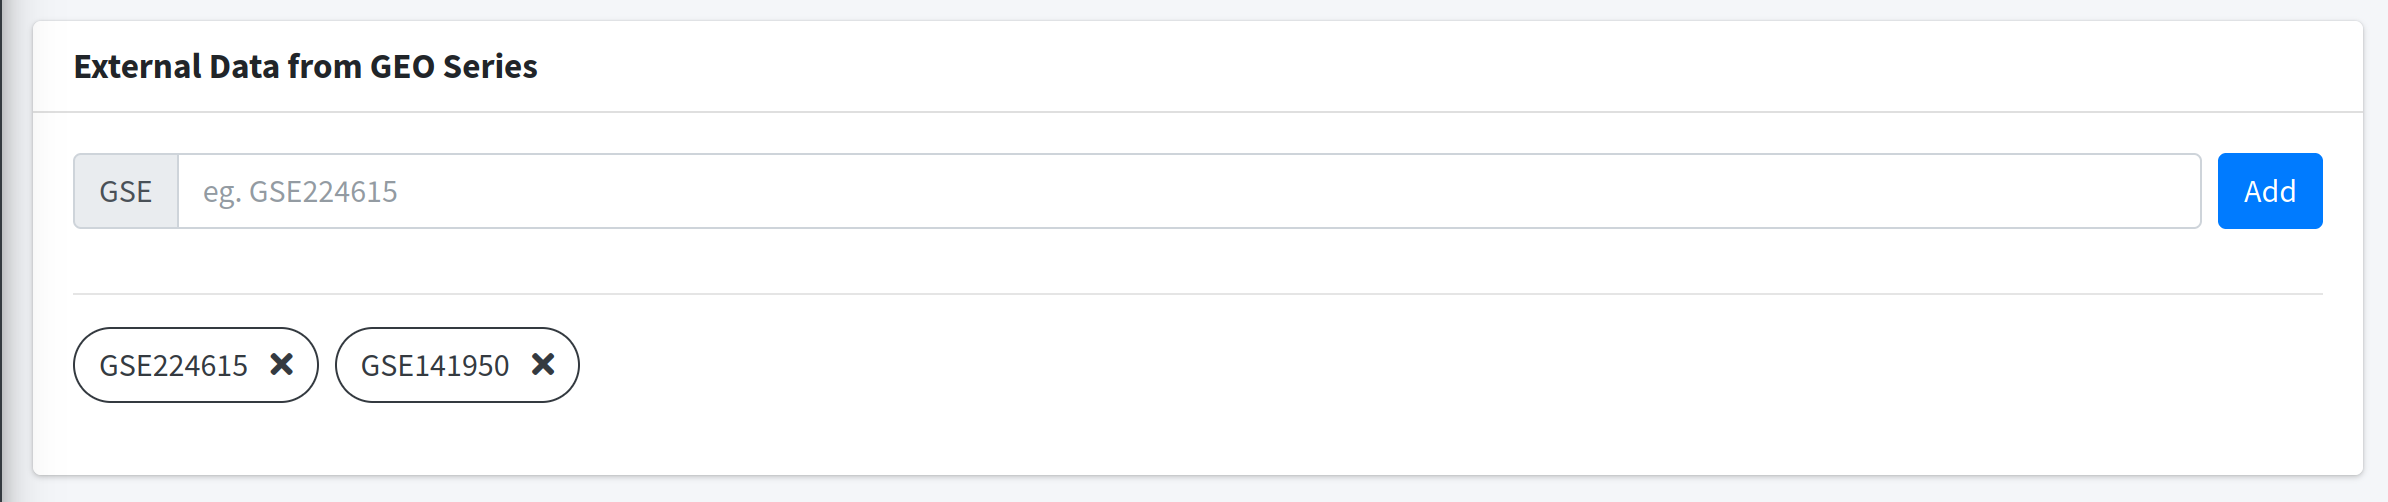
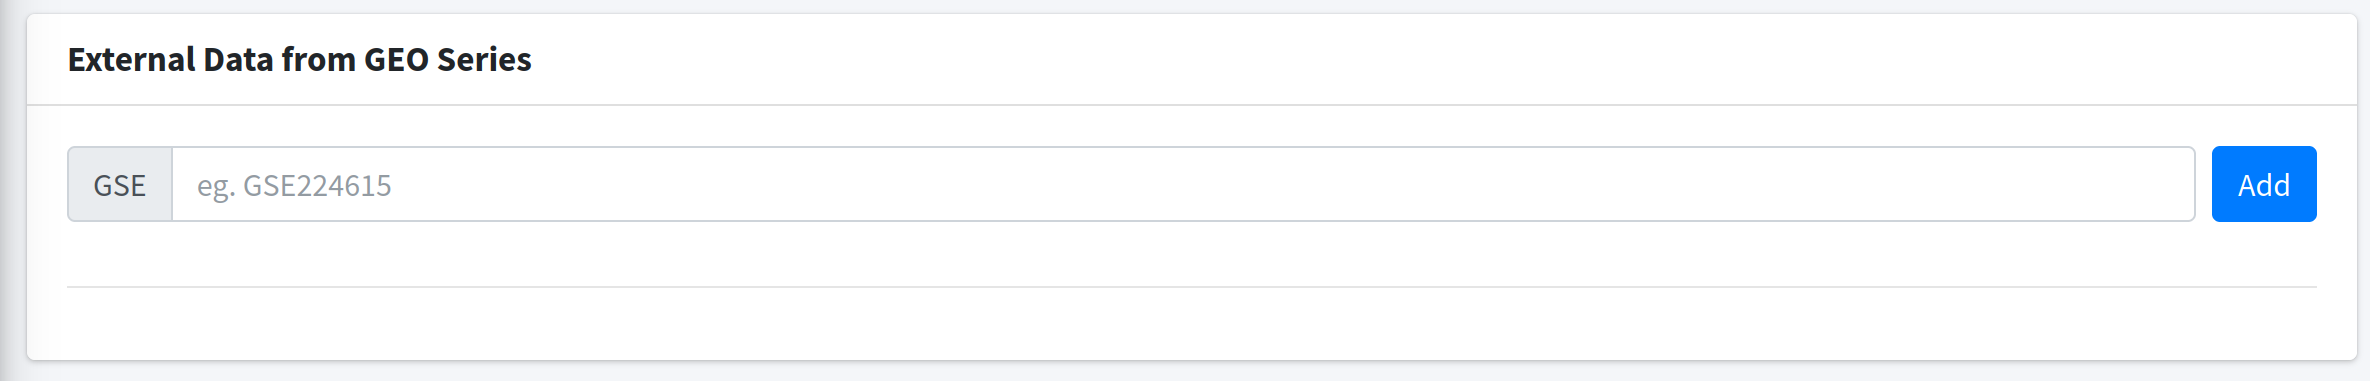
Update README.md
Add new images and instructions

diff --git a/README.md b/README.md
@@ -104,11 +104,17 @@ Clicking "Next", will show available metadata for each study.
 Metadata, gathered from the NCBI Sequence Read Archive (SRA) and the European Bioinformatics Institute’s European Nucleotide Archive (ENA), is available for each previously selected study.
 ![Integrator add external GEO ID](./media/images/metadata_page.png)
 
-Create sample groupings by selecting "New group". Edit group names by selecting "Edit groups".
+Create sample groupings by selecting "Define groups". In the menu, set group names and click "Save groups" when done. 
 
-![Integrator create comparison groups](./media/images/groups.png)
+![Integrator create comparison groups](./media/images/create_groups.png)
 
-View samples for each study, select and assign samples to groups.
+Edit group names by selecting "Edit groups".
+
+![Integrator edit comparison groups](./media/images/groups.png)
+
+View samples for each study. Samples from the MorPhiC program will be listed under the "MorPhiC Samples" tab. Non-MorPhiC samples will be listed under "External Samples". Select and assign samples to groups.
+
+![Integrator metadata samples](./media/images/morphic_and_external_samples.png)
 
 ![Integrator add external GEO ID](./media/images/assign_to_group.png)
 
@@ -116,7 +122,7 @@ After selecting samples, navigate to "Next Run Workflow". Current selection of s
 
 ![Integrator add external GEO ID](./media/images/run_workflow_page.png)
 
-The status of the workflow will show at the top of screen. When complete, the page will refresh to show results. Option to donwload counts is available.
+The status of the workflow will show at the top of screen. When complete, the page will refresh to show results. Option to download counts is available.
 
 ## Technologies Used
 
